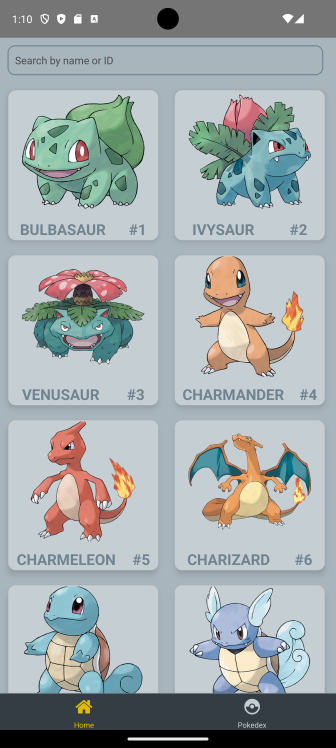
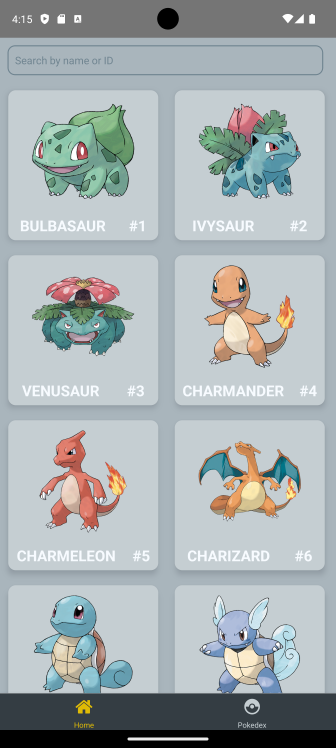
ECF 2: ajout projet pokemon app - modif style

diff --git a/App/AppPokemon/screens/PokemonDetail.jsx b/App/AppPokemon/screens/PokemonDetail.jsx
@@ -2,6 +2,7 @@ import { StyleSheet, Text, View, FlatList, Image, Button, ScrollView, TouchableH
 import React, { useEffect, useLayoutEffect, useState } from 'react'
 import axios from 'axios';
 import AsyncStorage from '@react-native-async-storage/async-storage'
+import Icon from 'react-native-vector-icons/MaterialIcons'
 import HomeScreen from './HomeScreen';
 
 export default function PokemonDetail({ navigation, route }) {
@@ -42,7 +43,7 @@ export default function PokemonDetail({ navigation, route }) {
             <View style={styles.imageStyle}>
                 <Image
                     source={{ uri: `https://raw.githubusercontent.com/PokeAPI/sprites/master/sprites/pokemon/other/official-artwork/${pokemon.id}.png` }}
-                    style={[styles.imageStyle,{ width: '100%', height: 400 }]} />
+                    style={[styles.imgStyle, { width: '100%', height: 400, resizeMode: 'contain' }]} />
             </View>
 
             <View style={styles.pokemonContainer}>
@@ -57,11 +58,18 @@ export default function PokemonDetail({ navigation, route }) {
 
                 {/* Prenom du pokemon et id */}
                 <View style={styles.pokemonHead}>
-                    <Text style={styles.pokemonName}>{pokemon.name} <Text style={styles.pokemonId}>#{pokemon.id}</Text></Text>
+                    <Text style={styles.pokemonName}>{pokemon.name ? pokemon.name.toUpperCase() : ''} <Text style={styles.pokemonId}>#{pokemon.id}</Text></Text>
                     <TouchableOpacity
                         style={styles.button}
                         onPress={addToPokedex}>
-                        <Text style={styles.buttonText}>Add to Pokedex</Text>
+                        <View style={styles.buttonContainer}>
+                            <Text style={styles.buttonText}>+</Text>
+                            <Icon
+                                name='catching-pokemon'
+                                size={45}
+                                color='#e2e6e9' />
+                        </View>
+
                     </TouchableOpacity>
                 </View>
 
@@ -83,12 +91,16 @@ export default function PokemonDetail({ navigation, route }) {
                     scrollEnabled={false}
                 />
 
+                <View style={styles.separator}></View>
+
                 {/* Description du pokemon */}
                 <Text style={styles.titles}>Description</Text>
                 <View style={styles.typeContainer}>
-                    <Text style={styles.textDesc}>height: {pokemon.height}"</Text>
-                    <Text style={styles.textDesc}>weight: {pokemon.weight}kg</Text>
+                    <Text style={styles.textType}>height: {pokemon.height}"</Text>
+                    <Text style={styles.textType}>weight: {pokemon.weight}kg</Text>
                 </View>
+
+                <View style={styles.separator}></View>
 
                 {/* Stats du pokemon */}
                 <Text style={styles.titles}>Stats</Text>
@@ -98,9 +110,9 @@ export default function PokemonDetail({ navigation, route }) {
                         return (
                             <View style={{ flexDirection: 'row', alignItems: 'center' }}>
                                 <View style={styles.progressBarContainer}>
-                                    <Text style={styles.textType}>{itemData.item.stat.name.toUpperCase()}: {itemData.item.base_stat}</Text>
+                                    <Text style={styles.textDesc}>{itemData.item.stat.name.toUpperCase()}: {itemData.item.base_stat}</Text>
                                 </View>
-                                <View style={[styles.progBar, { height: 10, backgroundColor: '#6f8490', marginHorizontal: 10, flex: 0.5, width: 100 }]}>
+                                <View style={[styles.progBar, { height: 10, backgroundColor: '#c5ced2', marginHorizontal: 10, flex: 0.5, width: 100 }]}>
                                     <View style={{ width: `${(itemData.item.base_stat / 255) * 100}%`, backgroundColor: '#dfbb06', height: '100%' }} />
                                 </View>
                             </View>
@@ -109,6 +121,9 @@ export default function PokemonDetail({ navigation, route }) {
                     keyExtractor={(item, index) => index}
                     scrollEnabled={false}
                 />
+
+                <View style={styles.separator}></View>
+
 
                 {/* Evolutions du pokemon */}
                 <Text style={styles.titles}>Evolutions</Text>
@@ -122,27 +137,35 @@ const styles = StyleSheet.create({
     mainContainer: {
         display: 'flex',
         flexDirection: 'column',
-        backgroundColor: '#c5ced2',
+        backgroundColor: '#6f8490',
         height: '100%',
         width: '100%',
     },
 
     imageStyle: {
-        backgroundColor: '#8ca7b6',
+        backgroundColor: '#c5ced2',
         borderBottomRightRadius: 30,
         borderBottomLeftRadius: 30,
-        shadowColor: '#343d43',
+        shadowColor: '#202629',
         shadowOpacity: 0.9,
         shadowRadius: 3.84,
-        elevation: 3,
+        elevation: 4,
     },
 
     imgStyle: {
-        // borderRadius: 50,
-        shadowColor: '#343d43',
-        shadowOpacity: 0.9,
-        shadowRadius: 3.84,
-        elevation: 3,
+        // backgroundColor: '#ac9004',
+        borderColor: '#8ca7b6',
+        borderWidth: 1,
+        borderBottomRightRadius: 30,
+        borderBottomLeftRadius: 30,
+    },
+
+    buttonContainer: {
+        display: 'flex',
+        flexDirection: 'row',
+        justifyContent: 'center',
+        alignContent: 'center',
+        alignItems: 'center',
     },
 
     button: {
@@ -151,18 +174,19 @@ const styles = StyleSheet.create({
         backgroundColor: '#881122',
         padding: 10,
         marginHorizontal: 10,
-        borderRadius: 10,
-        width: '30%',
-        height: 50,
-        shadowColor: '#343d43',
+        borderRadius: 40,
+        width: 80,
+        height: 80,
+        shadowColor: '#202629',
         shadowOpacity: 0.9,
         shadowRadius: 3.84,
-        elevation: 3,
+        elevation: 4,
     },
 
     buttonText: {
-        color: 'white',
+        color: '#e2e6e9',
         fontWeight: 'bold',
+        fontSize: 30,
     },
 
     pokemonContainer: {
@@ -174,13 +198,13 @@ const styles = StyleSheet.create({
     pokemonName: {
         fontSize: 30,
         fontWeight: 'bold',
-        color: '#343d43'
+        color: '#e2e6e9'
     },
 
     pokemonId: {
         fontSize: 20,
         fontWeight: 'bold',
-        color: '#6f8490'
+        color: '#e2e6e9'
     },
 
     pokemonHead: {
@@ -197,14 +221,14 @@ const styles = StyleSheet.create({
         fontSize: 20,
         fontWeight: 'bold',
         paddingTop: 10,
-        textAlign: 'center',
+        // textAlign: 'center',
         marginVertical: 10,
-        color: '#6f8490'
+        color: '#c5ced2'
     },
 
     typeContainer: {
         display: 'flex',
-        backgroundColor: '#8ca7b6',
+        backgroundColor: '#dfbb06',
         paddingHorizontal: 10,
         paddingVertical: 5,
         marginHorizontal: 5,
@@ -219,13 +243,14 @@ const styles = StyleSheet.create({
     textType: {
         fontSize: 15,
         fontWeight: 'bold',
-        color: '#343d43'
+        color: '#47555d'
     },
 
     textDesc: {
         fontSize: 15,
+        fontWeight: 'bold',
         marginHorizontal: 5,
-        color: '#343d43',
+        color: '#e2e6e9',
     },
 
     progBar: {
@@ -245,8 +270,15 @@ const styles = StyleSheet.create({
         flex: 0.5,
         flexDirection: 'row',
         justifyContent: 'flex-end',
-    }
+    },
 
+    separator: {
+        width: '80%',
+        height: 2,
+        backgroundColor: '#8ca7b6',
+        marginTop: 30,
+        alignSelf: 'center',
+    }
 
     // buttonContainer: {
     //     display: 'flex',

diff --git a/App/AppPokemon/screens/HomeScreen.jsx b/App/AppPokemon/screens/HomeScreen.jsx
@@ -27,7 +27,8 @@ export default function HomeScreen({ navigation }) {
 
 
     useEffect(() => {
-        dispatch(getPokemons());
+            dispatch(getPokemons());
+
     }, []);
 
 
@@ -36,7 +37,7 @@ export default function HomeScreen({ navigation }) {
         return <Text>Loading...</Text>;
     }
 
-    const filteredPokemons = (pokemons.results ?? []).filter(pokemon => {
+    const filteredPokemons = (pokemons ?? []).filter(pokemon => {
         const name = pokemon.name.toLowerCase();
         const id = pokemon.url.split('/')[6];
         // return pokemon.types.some(type => type.type.name === search) || name.includes(search.toLowerCase()) || id.includes(search);
@@ -72,6 +73,7 @@ export default function HomeScreen({ navigation }) {
                 onChangeText={text => setSearch(text)}
                 value={search}
                 placeholder="Search by name or ID"
+                placeholderTextColor={'#6f8490'}
             />
 
             <FlatList
@@ -85,7 +87,7 @@ export default function HomeScreen({ navigation }) {
                             <View style={styles.cardContainer}>
                                 <Image
                                     source={{ uri: imageUrl }}
-                                    style={{ width: '90%', height: 160 }} />
+                                    style={{ width: '80%', height: 150, resizeMode: 'contain' }} />
                                 <View style={styles.row}>
                                     <Text style={styles.textStyle}>{itemData.item.name.toUpperCase()}</Text>
                                     <Text style={styles.textStyle}>#{id}</Text>
@@ -142,7 +144,9 @@ const styles = StyleSheet.create({
     textStyle: {
         fontSize: 20,
         fontWeight: 'bold',
-        color: '#6f8490',
+        color: '#f7fbff',
+        // color: '#6f8490',
+
     },
     inputStyle: {
         height: 40,
@@ -156,7 +160,7 @@ const styles = StyleSheet.create({
         color: '#343d43',
     }
 
-        // typeContainer: {
+    // typeContainer: {
     //     display: 'flex',
     //     backgroundColor: 'lightgrey',
     //     marginHorizontal: 5,

diff --git a/App/AppPokemon/screens/MyPokedex.jsx b/App/AppPokemon/screens/MyPokedex.jsx
@@ -2,6 +2,7 @@ import { StyleSheet, Text, View, FlatList, Image, Button, ScrollView, TouchableO
 import React, { useEffect, useState, useCallback } from 'react'
 import AsyncStorage from '@react-native-async-storage/async-storage'
 import { useFocusEffect } from '@react-navigation/native'
+import Icon from 'react-native-vector-icons/MaterialIcons'
 
 export default function MyPokedex() {
     const [pokedex, setPokedex] = useState([]);
@@ -34,7 +35,15 @@ export default function MyPokedex() {
 
     return (
         <ScrollView style={styles.mainContainer}>
-            <Text style={styles.myPokedexTitle}>My Pokedex</Text>
+            <View style={styles.rowTitle}>
+                <Text style={styles.myPokedexTitle}>My Pokedex
+                </Text>
+                <Icon
+                    name='catching-pokemon'
+                    size={45}
+                    color='#ae9205' />
+            </View>
+
             <FlatList
                 data={pokedex}
                 numColumns={2}
@@ -44,7 +53,7 @@ export default function MyPokedex() {
                             <View style={styles.cardContainer}>
                                 <Image
                                     source={{ uri: `https://raw.githubusercontent.com/PokeAPI/sprites/master/sprites/pokemon/other/official-artwork/${item.id}.png` }}
-                                    style={{ width: '90%', height: 160 }}
+                                    style={{ width: '80%', height: 150, resizeMode: 'contain' }}
                                 />
                                 <View style={styles.row}>
                                     <Text style={styles.textStyle}>{item.name.toUpperCase()}</Text>
@@ -77,7 +86,15 @@ const styles = StyleSheet.create({
         fontWeight: 'bold',
         textAlign: 'center',
         marginVertical: 10,
-        color: '#881122',
+        color: '#ae9205',
+        marginRight: 10,
+    },
+
+    rowTitle: {
+        display: 'flex',
+        flexDirection: 'row',
+        justifyContent: 'center',
+        alignItems: 'center',
     },
 
     touchableContainer: {

diff --git a/App/AppPokemon/App.jsx b/App/AppPokemon/App.jsx
@@ -19,7 +19,7 @@ const Tab = createBottomTabNavigator()
 
 function HomeStack() {
     return (
-        <Stack.Navigator initialRouteName='Home'>
+        <Stack.Navigator initialRouteName='Home' >
             <Stack.Screen name='Home' component={HomeScreen} options={{ headerShown: false }} />
             <Stack.Screen name='PokemonDetail' component={PokemonDetail} />
         </Stack.Navigator>
@@ -37,7 +37,7 @@ export default function App() {
                 }}>
                     <Tab.Screen name='HomeStack' component={HomeStack} options={{
                         headerShown: false, tabBarIcon: ({ color, size }) => (<Icon name="home" size={size} color={color} />),
-                        tabBarLabel: "Home"
+                        tabBarLabel: "Home",
                     }} />
                     <Tab.Screen name='MyPokedex' component={MyPokedex} options={{
                         headerShown: false, tabBarIcon: ({ color, size }) => (<IconA name="catching-pokemon" size={size} color={color} />),

diff --git a/App/AppPokemon/store/pokemonSlice.js b/App/AppPokemon/store/pokemonSlice.js
@@ -5,17 +5,17 @@ import axios from "axios";
 export const getPokemons = createAsyncThunk(
     "pokemons/getPokemons",
     async () => {
-        // On utilise axios pour faire une requête get sur l'api. 
-        const response = await axios.get('https://pokeapi.co/api/v2/pokemon?limit=50&offset=0');
-        // On retourne la data de la requête.
-        return response.data;
+        try {
+
+            const response = await axios.get(`https://pokeapi.co/api/v2/pokemon?limit=200&offset=0`);
+            return response.data.results;
+        }
+        catch (error) {
+            throw error;
+        }
+        
     }
 );
-// function getPokemons() {
-//     axios.get('https://pokeapi.co/api/v2/pokemon?limit=160&offset=0')
-//     .then(response => setContacts(response.data))
-//     .catch(error => console.error(error))
-// }
 
 // On crée un slice pour gérer les pokémons.
 const pokemonSlice = createSlice({

diff --git a/README.md b/README.md
@@ -112,6 +112,7 @@ npx react-native run-android
 - [x] Create main features
   - [x] Store enabling to call the Pokeapi and get every Pokemons
   - [x] Configure Navigation Properties with a Bottom Tab and a Stack
+    - [ ] Fix the Home button (don't redirect to HomeScreen)
   - [x] Home Screen
     - [x] List of Pokemons with their pic, name and ID
     - [x] Input to search a Pokemon by its name or ID
@@ -125,8 +126,8 @@ npx react-native run-android
   - [x] Detail Screen
     - [x] List of Pokemons with their pic, name and ID
     - [x] Feature to delete a Pokemon when user press on the selected Pokemon
-    - [ ] Go to a Pokemon detail when the user do a short press on the selected Pokemon
-    - [ ] Delete a Pokemon when the user do a long press on the selected Pokemon
+    - [ ] Feature to go to a Pokemon detail when the user do a short press on the selected Pokemon
+    - [ ] Feature to delete a Pokemon when the user do a long press on the selected Pokemon
 
 
 
